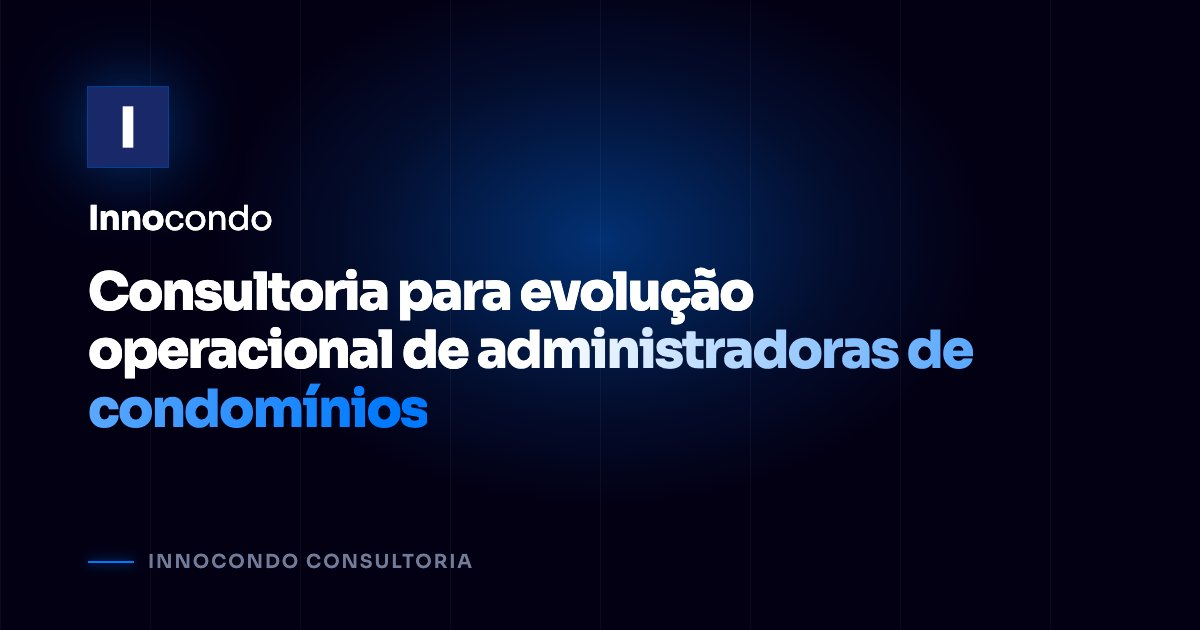
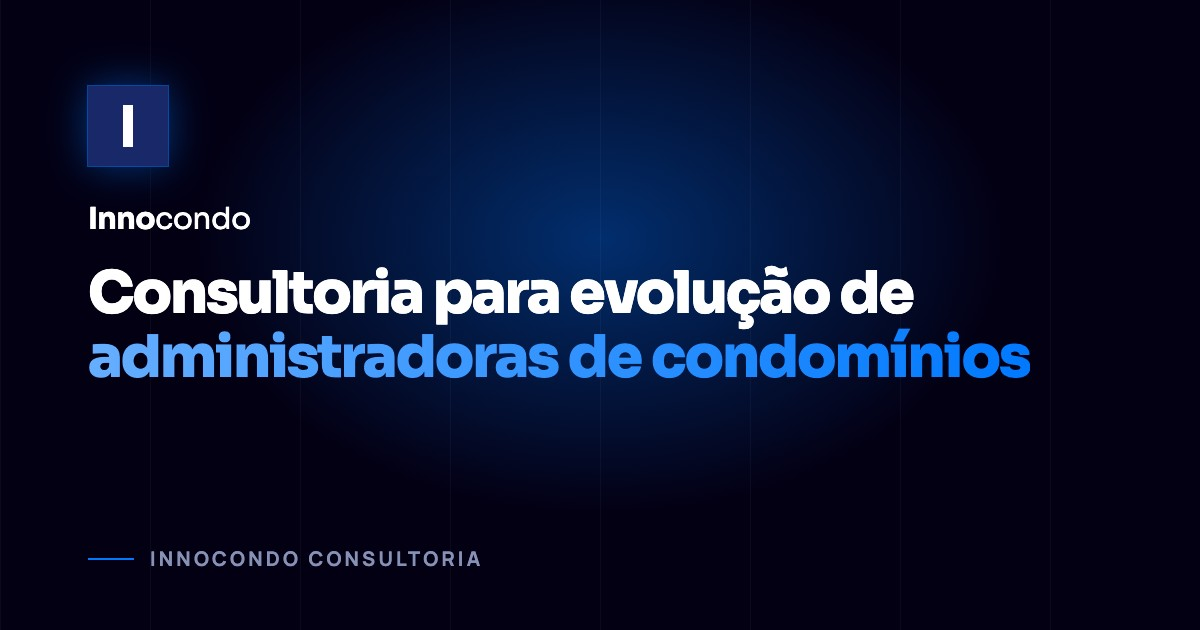
innocondo(lp): V4 vira a LP oficial de Consultoria em /innocondo-consultoria (V2 retirada do ar, copia no historico local); V3 e /innocondo-consultoria-v4 mantidas

diff --git a/innocondo-consultoria/index.html b/innocondo-consultoria/index.html
@@ -4,22 +4,22 @@
 <meta charset="UTF-8">
 <meta name="viewport" content="width=device-width, initial-scale=1.0">
 <meta name="robots" content="noindex, nofollow">
-<title>Innocondo Consultoria: evolução operacional de administradoras</title>
-<meta name="description" content="Consultoria para administradoras e empresas do ecossistema condominial: gargalos, oportunidades e melhorias em processos, gestão, tecnologia e resultados.">
+<title>Innocondo Consultoria para administradoras de condomínios</title>
+<meta name="description" content="Consultoria especializada em administradoras de condomínios: identificação de problemas, oportunidades e ineficiências e condução de projetos de evolução.">
 <link rel="canonical" href="https://meiocomunica.com.br/innocondo-consultoria/">
 <meta property="og:type" content="website">
 <meta property="og:locale" content="pt_BR">
 <meta property="og:site_name" content="Innocondo">
 <meta property="og:url" content="https://meiocomunica.com.br/innocondo-consultoria/">
-<meta property="og:title" content="Innocondo Consultoria: evolução operacional de administradoras">
-<meta property="og:description" content="Consultoria para administradoras e empresas do ecossistema condominial: gargalos, oportunidades e melhorias em processos, gestão, tecnologia e resultados.">
+<meta property="og:title" content="Innocondo Consultoria para administradoras de condomínios">
+<meta property="og:description" content="Consultoria especializada em administradoras de condomínios: identificação de problemas, oportunidades e ineficiências e condução de projetos de evolução.">
 <meta property="og:image" content="https://meiocomunica.com.br/innocondo-midia/og/og-consultoria.jpg">
 <meta property="og:image:width" content="1200">
 <meta property="og:image:height" content="630">
 <meta property="og:image:alt" content="Innocondo Consultoria">
 <meta name="twitter:card" content="summary_large_image">
-<meta name="twitter:title" content="Innocondo Consultoria: evolução operacional de administradoras">
-<meta name="twitter:description" content="Consultoria para administradoras e empresas do ecossistema condominial: gargalos, oportunidades e melhorias em processos, gestão, tecnologia e resultados.">
+<meta name="twitter:title" content="Innocondo Consultoria para administradoras de condomínios">
+<meta name="twitter:description" content="Consultoria especializada em administradoras de condomínios: identificação de problemas, oportunidades e ineficiências e condução de projetos de evolução.">
 <meta name="twitter:image" content="https://meiocomunica.com.br/innocondo-midia/og/og-consultoria.jpg">
 <meta name="theme-color" content="#030014">
 <script type="application/ld+json">{
@@ -37,7 +37,7 @@
     "height": 512
    },
    "image": "https://meiocomunica.com.br/innocondo-midia/og/og-innocondo.jpg",
-   "description": "Empresa dedicada ao mercado condominial. Atua em duas frentes: consultoria de eficiência e transformação operacional para administradoras de condomínios, e soluções para o ecossistema condominial, começando pela proteção.",
+   "description": "Empresa dedicada ao mercado condominial. A Innocondo Consultoria atua ao lado de administradoras de condomínios para identificar problemas, oportunidades e ineficiências e conduzir projetos de evolução.",
    "email": "contato@innocondo.com.br",
    "telephone": "+55-11-99137-5208",
    "address": {
@@ -62,16 +62,15 @@
     "eficiência operacional",
     "processos e back office",
     "ERP para administradoras",
-    "automação bancária de condomínios",
-    "seguros para condomínios"
+    "automação bancária de condomínios"
    ]
   },
   {
    "@type": "WebPage",
    "@id": "https://meiocomunica.com.br/innocondo-consultoria/#pagina",
    "url": "https://meiocomunica.com.br/innocondo-consultoria/",
-   "name": "Innocondo Consultoria: evolução operacional de administradoras",
-   "description": "Consultoria para administradoras e empresas do ecossistema condominial: gargalos, oportunidades e melhorias em processos, gestão, tecnologia e resultados.",
+   "name": "Innocondo Consultoria para administradoras de condomínios",
+   "description": "Consultoria especializada em administradoras de condomínios: identificação de problemas, oportunidades e ineficiências e condução de projetos de evolução.",
    "inLanguage": "pt-BR",
    "isPartOf": {
     "@type": "WebSite",
@@ -91,7 +90,7 @@
    "@type": "Service",
    "@id": "https://meiocomunica.com.br/innocondo-consultoria/#servico",
    "name": "Innocondo Consultoria",
-   "serviceType": "Consultoria em evolução operacional para administradoras de condomínios e empresas do ecossistema condominial",
+   "serviceType": "Consultoria para evolução de administradoras de condomínios",
    "provider": {
     "@id": "https://meiocomunica.com.br/innocondo-v5-1/#organizacao"
    },
@@ -101,9 +100,9 @@
    },
    "audience": {
     "@type": "Audience",
-    "audienceType": "Administradoras de condomínios e empresas do ecossistema condominial"
+    "audienceType": "Administradoras de condomínios"
    },
-   "description": "Consultoria para administradoras e empresas do ecossistema condominial: gargalos, oportunidades e melhorias em processos, gestão, tecnologia e resultados.",
+   "description": "Consultoria especializada em administradoras de condomínios: identificação de problemas, oportunidades e ineficiências e condução de projetos de evolução.",
    "url": "https://meiocomunica.com.br/innocondo-consultoria/"
   },
   {
@@ -130,18 +129,10 @@
    "mainEntity": [
     {
      "@type": "Question",
-     "name": "Vocês entregam um relatório e encerram o trabalho?",
+     "name": "Precisamos trocar de sistema?",
      "acceptedAnswer": {
       "@type": "Answer",
-      "text": "Não. O diagnóstico é o ponto de partida. A entrega é a melhoria incorporada à rotina: acompanhamos a implementação e apoiamos as equipes até a nova forma de operar estar estabilizada."
-     }
-    },
-    {
-     "@type": "Question",
-     "name": "Precisamos trocar de sistema para trabalhar com a Innocondo?",
-     "acceptedAnswer": {
-      "@type": "Answer",
-      "text": "Não. Muitos ganhos vêm de utilizar melhor o que já existe. Se a troca ou a evolução do sistema fizer sentido, isso aparece no diagnóstico, com critérios e alternativas, e a decisão permanece com a administradora."
+      "text": "Não necessariamente. Muitos ganhos vêm de utilizar melhor o que já existe. Se a troca ou a evolução do sistema fizer sentido, isso aparece no diagnóstico, com critérios e alternativas, e a decisão permanece com a administradora."
      }
     },
     {
@@ -149,23 +140,15 @@
      "name": "Quanto tempo leva um projeto?",
      "acceptedAnswer": {
       "@type": "Answer",
-      "text": "Depende da complexidade da operação e do objetivo. Prazo e escopo são definidos na conversa inicial, depois de entendermos o cenário, e não antes dela."
+      "text": "O prazo depende do contexto, da complexidade e do objetivo do projeto. Escopo e cronograma são definidos após a conversa inicial e o entendimento do cenário da administradora."
      }
     },
     {
      "@type": "Question",
-     "name": "Atendem administradoras de qualquer porte?",
+     "name": "Vocês atendem administradoras de qualquer porte?",
      "acceptedAnswer": {
       "@type": "Answer",
-      "text": "Sim. O escopo e a profundidade do trabalho são definidos de acordo com o tamanho da operação, os desafios identificados e o objetivo do projeto."
-     }
-    },
-    {
-     "@type": "Question",
-     "name": "A Innocondo administra condomínios?",
-     "acceptedAnswer": {
-      "@type": "Answer",
-      "text": "Não. A Innocondo é uma empresa dedicada ao mercado condominial e atua ao lado das administradoras, sem substituí-las."
+      "text": "Sim. O escopo e a profundidade do trabalho são definidos de acordo com o tamanho da administradora, os desafios identificados e o objetivo do projeto. Empresas do ecossistema condominial também podem ser atendidas, em projetos compatíveis com a nossa experiência."
      }
     }
    ]
@@ -520,6 +503,53 @@ html.cv-off .sec{content-visibility:visible}
 .prova-cta{margin-top:30px}
 @media(max-width:1024px){.desafio,.duas-col{grid-template-columns:1fr;gap:32px}}
 @media(max-width:900px){.grupos{grid-template-columns:1fr}}
+
+/* V3: assinatura sutil "Organizar", segundo texto do hero e fecho do bloco de frentes */
+.lph-sub.lph-sub2{margin-top:-22px;font-size:1rem;opacity:.88}
+.assina{display:flex;flex-wrap:wrap;align-items:center;gap:14px;margin-top:38px;font-size:.76rem;font-weight:700;letter-spacing:.22em;text-transform:uppercase;color:var(--blue-300)}
+.assina span{font-size:.95rem;font-weight:500;letter-spacing:.01em;text-transform:none;color:var(--txt-2);padding-left:14px;border-left:1px solid var(--line-2)}
+.grupos+.fecho{margin-top:44px}
+@media(max-width:640px){.assina{margin-top:30px;gap:10px}.assina span{padding-left:10px}}
+
+/* V4: acabamento de composição. Menos altura, sem linhas divisórias, mesma informação. */
+
+/* 02 · desafio: os quatro problemas viram uma grade 2x2 ao lado do título, sem fios entre eles */
+#cenario{padding-block:92px}
+.sinais{display:grid;grid-template-columns:repeat(2,minmax(0,1fr));gap:28px 34px}
+.sinais li{padding:0 0 0 22px;border:0}
+.sinais li:last-child{border:0}
+.sinais li::before{top:7px;width:7px;height:7px;box-shadow:0 0 9px var(--blue)}
+.sinais b{font-size:.98rem;margin-bottom:6px}
+.sinais span{font-size:.88rem;line-height:1.55}
+
+/* 04 · frentes: três grupos menores, sem divisórias internas */
+#onde-atuamos{padding-block:96px}
+#onde-atuamos .sec-head{margin-bottom:38px}
+.grupos{gap:14px}
+.grupo{padding:22px 22px 24px;border-radius:var(--radius-lg)}
+.grupo>h3{margin-bottom:14px}
+.grupo li{padding:0;border:0;margin-bottom:16px}
+.grupo li:last-child{margin-bottom:0}
+.grupo li b{font-size:.95rem;margin-bottom:4px}
+.grupo li span{font-size:.85rem;line-height:1.5}
+.grupos+.fecho{margin-top:34px}
+
+/* 05 · contexto: uma linha só; abaixo de ~900px vira faixa que se arrasta para o lado */
+#caminho{padding-block:92px}
+#caminho .sec-head{margin-bottom:34px}
+.fatores{flex-wrap:nowrap;justify-content:space-between;gap:6px;margin-bottom:0;overflow-x:auto;overscroll-behavior-x:contain;scroll-snap-type:x proximity;scrollbar-width:none;padding-bottom:2px}
+.fatores::-webkit-scrollbar{display:none}
+.fatores span{flex:0 0 auto;scroll-snap-align:start;white-space:nowrap;padding:clamp(7px,.75vw,10px) clamp(10px,.9vw,12px);font-size:clamp(.64rem,.98vw,.75rem)}
+.fatores span::before{width:5px;height:5px;margin-right:clamp(5px,.55vw,7px)}
+.fatores.rola:not(.fim){-webkit-mask-image:linear-gradient(90deg,#000 calc(100% - 48px),transparent);mask-image:linear-gradient(90deg,#000 calc(100% - 48px),transparent)}
+.fatores.rola{justify-content:flex-start}
+.fatores:focus-visible{outline:2px solid var(--blue);outline-offset:6px;border-radius:12px}
+
+@media(max-width:1024px){#cenario,#onde-atuamos,#caminho{padding-block:76px}}
+@media(max-width:640px){
+  #cenario,#onde-atuamos,#caminho{padding-block:60px}
+  .sinais{grid-template-columns:1fr;gap:22px}
+}
 </style>
 </head>
 <body>
@@ -567,13 +597,15 @@ html.cv-off .sec{content-visibility:visible}
   <div class="wrap">
     <div class="lph-inner">
       <span class="pill hl hl-1">Consultoria</span>
-      <h1 class="hl hl-2">Consultoria para evolução operacional de <span class="grad">administradoras de condomínios</span></h1>
-      <p class="lph-sub hl hl-3">Apoiamos administradoras e empresas do ecossistema condominial na identificação de gargalos, oportunidades e ineficiências, estruturando melhorias que fortalecem processos, gestão, tecnologia e resultados.</p>
+      <h1 class="hl hl-2">Consultoria para evolução de <span class="grad">administradoras de condomínios</span></h1>
+      <p class="lph-sub hl hl-3">Atuamos ao lado de administradoras de condomínios para identificar problemas, oportunidades e ineficiências, estruturando melhorias e conduzindo projetos que contribuem para a evolução da administradora.</p>
+      <p class="lph-sub lph-sub2 hl hl-3">Nossa atuação parte da realidade de cada administradora, considerando seu momento, estrutura, desafios e objetivos.</p>
       <div class="lph-actions hl hl-4">
-        <a href="#contato" class="btn btn-primary">Conversar sobre minha operação <svg viewBox="0 0 24 24" stroke-linecap="round" stroke-linejoin="round"><path d="M5 12h14M13 6l6 6-6 6"/></svg></a>
+        <a href="#contato" class="btn btn-primary">Conversar com a Innocondo <svg viewBox="0 0 24 24" stroke-linecap="round" stroke-linejoin="round"><path d="M5 12h14M13 6l6 6-6 6"/></svg></a>
         <a href="#como" class="btn-link">Ver como atuamos
           <svg viewBox="0 0 24 24" stroke-linecap="round" stroke-linejoin="round"><path d="M12 5v14M6 13l6 6 6-6"/></svg></a>
       </div>
+      <div class="assina hl hl-4" aria-label="Organizar. Entender, estruturar, evoluir."><b>Organizar</b><span>Entender. Estruturar. Evoluir.</span></div>
     </div>
     <div class="lph-marcas hl hl-4"><div class="lph-marca"><b>+17</b><span>anos de experiência acumulada pelos profissionais</span></div><div class="lph-marca"><b>+250</b><span>administradoras visitadas e ouvidas</span></div><div class="lph-marca"><b>Experiência prática</b><span>em operação, gestão, tecnologia e transformação</span></div></div>
   </div>
@@ -583,9 +615,9 @@ html.cv-off .sec{content-visibility:visible}
   <div class="gridlines" aria-hidden="true"></div>
   <div class="wrap desafio">
     <div class="reveal">
-      <span class="pill">O desafio operacional</span>
-      <h2>O crescimento da administradora <span class="dim">exige mais da operação</span></h2>
-      <p>À medida que a operação cresce, processos, sistemas, pessoas e controles precisam evoluir no mesmo ritmo. Quando isso não acontece, surgem gargalos que impactam produtividade, qualidade e capacidade de gestão.</p>
+      <span class="pill">O desafio da administradora</span>
+      <h2>A evolução da administradora começa por <span class="dim">entender onde estão os pontos de atenção</span></h2>
+      <p>À medida que a administradora cresce, processos, sistemas, pessoas e controles precisam evoluir no mesmo ritmo. Quando isso não acontece, surgem pontos de atenção que afetam produtividade, qualidade e capacidade de gestão.</p>
     </div>
     <ul class="sinais reveal" data-d="1">
       <li><b>Processos concentrados em pessoas-chave</b><span>Quando conhecimento e execução ficam concentrados, a operação ganha dependência, vulnerabilidade e dificuldade de escala.</span></li>
@@ -600,12 +632,12 @@ html.cv-off .sec{content-visibility:visible}
   <div class="gridlines" aria-hidden="true"></div>
   <div class="wrap duas-col">
     <div class="reveal">
-      <span class="pill">Experiência aplicada</span>
-      <h2>Experiência de quem conhece a operação <span class="dim">por diferentes perspectivas</span></h2>
+      <span class="pill">Visão e experiência</span>
+      <h2>Uma visão que conecta <span class="dim">diferentes dimensões da administradora</span></h2>
     </div>
     <div class="reveal" data-d="1">
-      <p>Ao longo de mais de 17 anos, nossos profissionais estiveram dentro de administradoras de condomínios, instituições financeiras, empresas de tecnologia e iniciativas de formação profissional.</p>
-      <p>Essa experiência permite analisar a operação de forma integrada, conectando processos, pessoas, sistemas, financeiro, atendimento e gestão para identificar onde estão os principais pontos de evolução.</p>
+      <p>Ao longo de mais de 17 anos, nossos profissionais atuaram em diferentes pontos do mercado condominial, passando por administradoras, instituições financeiras, empresas de tecnologia e iniciativas de formação profissional.</p>
+      <p>Essa experiência permite conectar diferentes dimensões de uma administradora e entender como processos, pessoas, sistemas, gestão, financeiro e relacionamento se influenciam no dia a dia.</p>
     </div>
   </div>
 </section>
@@ -614,9 +646,9 @@ html.cv-off .sec{content-visibility:visible}
   <div class="gridlines" aria-hidden="true"></div>
   <div class="wrap">
     <div class="sec-head reveal">
-      <span class="pill">Frentes de atuação</span>
-      <h2>Onde podemos gerar valor <span class="dim">na sua operação</span></h2>
-      <p>Cada projeto é estruturado a partir do cenário, dos objetivos e do nível de maturidade de cada empresa. As frentes abaixo representam alguns dos principais contextos em que nossa experiência pode contribuir.</p>
+      <span class="pill">Onde atuamos</span>
+      <h2>Onde podemos contribuir <span class="dim">para a evolução da sua administradora</span></h2>
+      <p>Cada administradora vive um momento diferente. Nossa atuação pode envolver diferentes dimensões da administradora, de acordo com os desafios, oportunidades e objetivos identificados.</p>
     </div>
     <div class="grupos">
       <div class="grupo reveal">
@@ -636,13 +668,14 @@ html.cv-off .sec{content-visibility:visible}
         </ul>
       </div>
       <div class="grupo reveal" data-d="2">
-        <h3>Clientes e crescimento</h3>
+        <h3>Relacionamento e crescimento</h3>
         <ul>
           <li><b>Atendimento e relacionamento</b><span>Reestruturação de fluxos, canais, processos e modelos de atendimento, buscando mais organização, rastreabilidade e eficiência.</span></li>
           <li><b>Receita e crescimento</b><span>Análise de oportunidades de expansão de receita, aquisição e desenvolvimento de carteira, cross-selling, upselling e evolução do ticket médio.</span></li>
         </ul>
       </div>
     </div>
+    <p class="fecho reveal">Não trabalhamos a partir de um pacote pronto. Estruturamos cada projeto a partir do que a administradora precisa transformar.</p>
   </div>
 </section>
 
@@ -650,16 +683,12 @@ html.cv-off .sec{content-visibility:visible}
   <div class="gridlines" aria-hidden="true"></div>
   <div class="wrap">
     <div class="sec-head reveal">
-      <span class="pill">Cada operação, um caminho</span>
-      <h2>Cada operação exige <span class="dim">um caminho diferente</span></h2>
-      <p>O ponto de partida pode ser semelhante, mas as prioridades não são. Estes fatores influenciam diretamente o que vem primeiro em cada empresa.</p>
+      <span class="pill">Cada administradora, um caminho</span>
+      <h2>Cada administradora exige <span class="dim">um caminho diferente</span></h2>
+      <p>Duas administradoras podem utilizar o mesmo ERP, ter estruturas semelhantes e atuar no mesmo mercado, mas enfrentar desafios completamente diferentes. Por isso, antes de recomendar qualquer mudança, entendemos o contexto, as prioridades e os objetivos da administradora.</p>
     </div>
     <div class="fatores reveal" data-d="1">
-      <span>Região de atuação</span><span>Perfil da carteira</span><span>Ticket médio</span><span>Estrutura da equipe</span><span>Nível de maturidade</span><span>Sistemas utilizados</span><span>Objetivos estratégicos</span>
-    </div>
-    <div class="caminho-txt reveal" data-d="2">
-      <p>Uma administradora pode precisar reorganizar processos. Outra pode ter um ERP subutilizado. Outra pode buscar eficiência financeira, crescimento de carteira, automação ou fortalecimento dos controles. Nosso papel é entender essas diferenças e estruturar um projeto coerente com a realidade e os objetivos de cada empresa.</p>
-      <p class="fecho">Antes de recomendar qualquer mudança, entendemos o contexto em que a empresa está inserida.</p>
+      <span>Região de atuação</span><span>Perfil e composição da carteira</span><span>Ticket médio</span><span>Estrutura da equipe</span><span>Nível de maturidade</span><span>Sistemas utilizados</span><span>Objetivos estratégicos</span>
     </div>
   </div>
 </section>
@@ -668,18 +697,18 @@ html.cv-off .sec{content-visibility:visible}
   <div class="gridlines" aria-hidden="true"></div>
   <div class="wrap">
     <div class="sec-head reveal">
-      <span class="pill">Como transformamos a operação</span>
-      <h2>Da compreensão do cenário <span class="dim">à implementação da melhoria</span></h2>
+      <span class="pill">Como atuamos</span>
+      <h2>Como conduzimos <span class="dim">cada projeto</span></h2>
     </div>
     <div class="passos">
-      <div class="passo reveal"><span class="n">01</span><h3>Imersão na operação</h3><p>Entendemos como a empresa funciona na prática, conversamos com as equipes e analisamos os processos, sistemas e rotinas envolvidos.</p></div>
-      <div class="passo reveal" data-d="1"><span class="n">02</span><h3>Diagnóstico</h3><p>Identificamos gargalos, riscos, ineficiências e oportunidades, avaliando seus impactos sobre a operação e os objetivos da empresa.</p></div>
+      <div class="passo reveal"><span class="n">01</span><h3>Imersão</h3><p>Entendemos como a administradora funciona na prática, conversamos com as equipes e analisamos os processos, sistemas e rotinas envolvidos.</p></div>
+      <div class="passo reveal" data-d="1"><span class="n">02</span><h3>Diagnóstico</h3><p>Identificamos gargalos, riscos, ineficiências e oportunidades, avaliando seus impactos sobre a operação e os objetivos da administradora.</p></div>
       <div class="passo reveal" data-d="2"><span class="n">03</span><h3>Plano de melhorias</h3><p>Priorizamos as oportunidades e estruturamos o plano de ação, definindo o que precisa mudar, em que ordem e com quais responsáveis.</p></div>
       <div class="passo reveal" data-d="2"><span class="n">04</span><h3>Implementação</h3><p>Acompanhamos a execução, apoiamos as equipes e ajustamos os processos até que a nova forma de operar esteja incorporada à rotina.</p></div>
     </div>
     <div class="fecho-bloco reveal">
       <p class="fecho">Diagnóstico é o começo. A transformação acontece quando a melhoria entra na operação.</p>
-      <a href="#contato" class="lnk">Conversar sobre minha operação <svg viewBox="0 0 24 24" stroke-linecap="round" stroke-linejoin="round"><path d="M5 12h14M13 6l6 6-6 6"/></svg></a>
+      <a href="#contato" class="lnk">Conversar com a Innocondo <svg viewBox="0 0 24 24" stroke-linecap="round" stroke-linejoin="round"><path d="M5 12h14M13 6l6 6-6 6"/></svg></a>
     </div>
   </div>
 </section>
@@ -687,12 +716,12 @@ html.cv-off .sec{content-visibility:visible}
 <section class="sec prova deep" id="depoimentos">
   <div class="wrap">
     <div class="sec-head reveal">
-      <span class="pill">Experiência na prática</span>
-      <h2>Experiência aplicada <span class="dim">a problemas reais</span></h2>
+      <span class="pill">Na prática</span>
+      <h2>Projetos <span class="dim">que já conduzimos</span></h2>
     </div>
     <div class="depos">
-      <figure class="depo reveal"><span class="depo-tag">ERP, back office e automação bancária</span><svg class="quote-ic" viewBox="0 0 24 24" fill="currentColor" aria-hidden="true"><path d="M3 21c3 0 7-1 7-8V5c0-1.25-.756-2.017-2-2H4c-1.25 0-2 .75-2 1.972V11c0 1.25.75 2 2 2 1 0 1 0 1 1v1c0 1-1 2-2 2s-1 .008-1 1.031V20c0 1 0 1 1 1z"/><path d="M15 21c3 0 7-1 7-8V5c0-1.25-.757-2.017-2-2h-4c-1.25 0-2 .75-2 1.972V11c0 1.25.75 2 2 2h.75c0 2.25.25 4-2.75 4v3c0 1 0 1 1 1z"/></svg><blockquote>Trabalhar com a Innocondo foi uma experiência muito positiva para a Priali. A equipe esteve próxima da nossa operação de back office, entendendo nossos desafios e participando de projetos importantes, como a implantação de um novo ERP e a automação bancária dos condomínios que administramos. O conhecimento do mercado condominial, aliado a uma visão muito prática da operação, contribuiu diretamente para ganharmos eficiência e evoluirmos nossa forma de trabalhar.</blockquote><figcaption class="depo-who"><img class="depo-av" src="/innocondo-midia/depoimentos/elaine-priali.webp" width="52" height="52" alt="" loading="lazy" decoding="async"><div><div class="nm">Elaine</div><div class="rl">Sócia-Diretora · Administradora Priali</div></div></figcaption></figure>
-      <figure class="depo reveal" data-d="1"><span class="depo-tag">Processos e atendimento</span><svg class="quote-ic" viewBox="0 0 24 24" fill="currentColor" aria-hidden="true"><path d="M3 21c3 0 7-1 7-8V5c0-1.25-.756-2.017-2-2H4c-1.25 0-2 .75-2 1.972V11c0 1.25.75 2 2 2 1 0 1 0 1 1v1c0 1-1 2-2 2s-1 .008-1 1.031V20c0 1 0 1 1 1z"/><path d="M15 21c3 0 7-1 7-8V5c0-1.25-.757-2.017-2-2h-4c-1.25 0-2 .75-2 1.972V11c0 1.25.75 2 2 2h.75c0 2.25.25 4-2.75 4v3c0 1 0 1 1 1z"/></svg><blockquote>A Innocondo nos apoiou em um momento importante de revisão dos nossos processos operacionais e de atendimento. A partir de uma análise muito próxima da nossa realidade, conseguimos organizar e centralizar o atendimento em um fluxo mais estruturado, trazendo mais controle e visibilidade para a operação. O trabalho contribuiu para melhorar nossa gestão e tornar o processo de atendimento mais eficiente e organizado.</blockquote><figcaption class="depo-who"><img class="depo-av" src="/innocondo-midia/depoimentos/julio-herold.webp" width="52" height="52" alt="" loading="lazy" decoding="async"><div><div class="nm">Júlio Herold</div><div class="rl">Sócio-Diretor · GH Sindicatura Profissional</div></div></figcaption></figure>
+      <figure class="depo reveal"><span class="depo-tag">ERP, back office, automação bancária e eficiência</span><svg class="quote-ic" viewBox="0 0 24 24" fill="currentColor" aria-hidden="true"><path d="M3 21c3 0 7-1 7-8V5c0-1.25-.756-2.017-2-2H4c-1.25 0-2 .75-2 1.972V11c0 1.25.75 2 2 2 1 0 1 0 1 1v1c0 1-1 2-2 2s-1 .008-1 1.031V20c0 1 0 1 1 1z"/><path d="M15 21c3 0 7-1 7-8V5c0-1.25-.757-2.017-2-2h-4c-1.25 0-2 .75-2 1.972V11c0 1.25.75 2 2 2h.75c0 2.25.25 4-2.75 4v3c0 1 0 1 1 1z"/></svg><blockquote>Trabalhar com a Innocondo foi uma experiência muito positiva para a Priali. A equipe esteve próxima da nossa operação de back office, entendendo nossos desafios e participando de projetos importantes, como a implantação de um novo ERP e a automação bancária dos condomínios que administramos. O conhecimento do mercado condominial, aliado a uma visão muito prática da operação, contribuiu diretamente para ganharmos eficiência e evoluirmos nossa forma de trabalhar.</blockquote><figcaption class="depo-who"><img class="depo-av" src="/innocondo-midia/depoimentos/elaine-priali.webp" width="52" height="52" alt="" loading="lazy" decoding="async"><div><div class="nm">Elaine</div><div class="rl">Sócia-Diretora · Administradora Priali</div></div></figcaption></figure>
+      <figure class="depo reveal" data-d="1"><span class="depo-tag">Processos, atendimento, organização e gestão</span><svg class="quote-ic" viewBox="0 0 24 24" fill="currentColor" aria-hidden="true"><path d="M3 21c3 0 7-1 7-8V5c0-1.25-.756-2.017-2-2H4c-1.25 0-2 .75-2 1.972V11c0 1.25.75 2 2 2 1 0 1 0 1 1v1c0 1-1 2-2 2s-1 .008-1 1.031V20c0 1 0 1 1 1z"/><path d="M15 21c3 0 7-1 7-8V5c0-1.25-.757-2.017-2-2h-4c-1.25 0-2 .75-2 1.972V11c0 1.25.75 2 2 2h.75c0 2.25.25 4-2.75 4v3c0 1 0 1 1 1z"/></svg><blockquote>A Innocondo nos apoiou em um momento importante de revisão dos nossos processos operacionais e de atendimento. A partir de uma análise muito próxima da nossa realidade, conseguimos organizar e centralizar o atendimento em um fluxo mais estruturado, trazendo mais controle e visibilidade para a operação. O trabalho contribuiu para melhorar nossa gestão e tornar o processo de atendimento mais eficiente e organizado.</blockquote><figcaption class="depo-who"><img class="depo-av" src="/innocondo-midia/depoimentos/julio-herold.webp" width="52" height="52" alt="" loading="lazy" decoding="async"><div><div class="nm">Júlio Herold</div><div class="rl">Sócio-Diretor · GH Sindicatura Profissional</div></div></figcaption></figure>
     </div>
   </div>
 </section>
@@ -705,7 +734,7 @@ html.cv-off .sec{content-visibility:visible}
       <h2>Perguntas <span class="dim">frequentes</span></h2>
     </div>
     <div class="faq">
-      <details class="reveal"><summary>Vocês entregam um relatório e encerram o trabalho?</summary><div class="resp">Não. O diagnóstico é o ponto de partida. A entrega é a melhoria incorporada à rotina: acompanhamos a implementação e apoiamos as equipes até a nova forma de operar estar estabilizada.</div></details><details class="reveal"><summary>Precisamos trocar de sistema para trabalhar com a Innocondo?</summary><div class="resp">Não. Muitos ganhos vêm de utilizar melhor o que já existe. Se a troca ou a evolução do sistema fizer sentido, isso aparece no diagnóstico, com critérios e alternativas, e a decisão permanece com a administradora.</div></details><details class="reveal"><summary>Quanto tempo leva um projeto?</summary><div class="resp">Depende da complexidade da operação e do objetivo. Prazo e escopo são definidos na conversa inicial, depois de entendermos o cenário, e não antes dela.</div></details><details class="reveal"><summary>Atendem administradoras de qualquer porte?</summary><div class="resp">Sim. O escopo e a profundidade do trabalho são definidos de acordo com o tamanho da operação, os desafios identificados e o objetivo do projeto.</div></details><details class="reveal"><summary>A Innocondo administra condomínios?</summary><div class="resp">Não. A Innocondo é uma empresa dedicada ao mercado condominial e atua ao lado das administradoras, sem substituí-las.</div></details>
+      <details class="reveal"><summary>Precisamos trocar de sistema?</summary><div class="resp">Não necessariamente. Muitos ganhos vêm de utilizar melhor o que já existe. Se a troca ou a evolução do sistema fizer sentido, isso aparece no diagnóstico, com critérios e alternativas, e a decisão permanece com a administradora.</div></details><details class="reveal"><summary>Quanto tempo leva um projeto?</summary><div class="resp">O prazo depende do contexto, da complexidade e do objetivo do projeto. Escopo e cronograma são definidos após a conversa inicial e o entendimento do cenário da administradora.</div></details><details class="reveal"><summary>Vocês atendem administradoras de qualquer porte?</summary><div class="resp">Sim. O escopo e a profundidade do trabalho são definidos de acordo com o tamanho da administradora, os desafios identificados e o objetivo do projeto. Empresas do ecossistema condominial também podem ser atendidas, em projetos compatíveis com a nossa experiência.</div></details>
     </div>
   </div>
 </section>
@@ -716,8 +745,8 @@ html.cv-off .sec{content-visibility:visible}
     <div class="contato-card reveal">
       <div class="contato-esq">
         <span class="pill">Contato</span>
-        <h2>Onde está a principal oportunidade de evolução da sua operação?</h2>
-        <p>Conte um pouco sobre sua empresa, o momento atual e o principal desafio que gostaria de analisar. A partir dessas informações, podemos entender o contexto e avaliar como a Innocondo pode contribuir.</p>
+        <h2>Onde está a principal oportunidade de evolução da sua administradora?</h2>
+        <p>Conte um pouco sobre sua administradora, o momento atual e o principal desafio ou oportunidade que gostaria de analisar. A partir dessas informações, podemos entender o contexto e avaliar como a Innocondo pode contribuir.</p>
         <div class="atalho">
           <a href="https://wa.me/5511991375208" target="_blank" rel="noopener"><svg viewBox="0 0 24 24" stroke-linecap="round" stroke-linejoin="round" aria-hidden="true"><path d="M21 11.5a8.5 8.5 0 0 1-8.5 8.5 8.4 8.4 0 0 1-3.8-.9L3 21l1.9-5.7a8.4 8.4 0 0 1-.9-3.8 8.5 8.5 0 0 1 8.5-8.5A8.5 8.5 0 0 1 21 11.5z"/></svg>Prefere conversar agora? Fale no WhatsApp</a>
           <!--email_off--><a href="mailto:contato@innocondo.com.br"><svg viewBox="0 0 24 24" stroke-linecap="round" stroke-linejoin="round"><rect x="2" y="4" width="20" height="16" rx="2"/><path d="m22 7-10 6L2 7"/></svg>contato@innocondo.com.br</a><!--/email_off-->
@@ -725,7 +754,7 @@ html.cv-off .sec{content-visibility:visible}
       </div>
       <form class="fm" data-destino="" data-origem="Consultoria" novalidate>
         <input type="text" class="hp" name="_confirme" tabindex="-1" autocomplete="off" aria-hidden="true">
-        <div class="campo" data-campo><label for="c-nome">Nome</label><input type="text" id="c-nome" name="nome" placeholder="Seu nome" required><span class="msg-erro">Preencha este campo.</span></div><div class="campo" data-campo><label for="c-empresa">Empresa</label><input type="text" id="c-empresa" name="empresa" placeholder="Nome da empresa" required><span class="msg-erro">Preencha este campo.</span></div><div class="fm-linha"><div class="campo" data-campo><label for="c-email">E-mail</label><input type="email" id="c-email" name="email" placeholder="nome@empresa.com.br" required autocomplete="email"><span class="msg-erro">Informe um e-mail válido.</span></div><div class="campo" data-campo><label for="c-zap">WhatsApp</label><input type="tel" id="c-zap" name="whatsapp" placeholder="(11) 90000-0000" required autocomplete="tel" inputmode="tel"><span class="msg-erro">Informe um telefone válido.</span></div></div><div class="campo" data-campo><label for="c-porte">Quantidade aproximada de condomínios administrados</label><select id="c-porte" name="porte" required><option value="" disabled selected>Selecione</option><option value="Até 20">Até 20</option><option value="De 21 a 50">De 21 a 50</option><option value="De 51 a 100">De 51 a 100</option><option value="Mais de 100">Mais de 100</option><option value="Não se aplica">Não se aplica</option></select><span class="msg-erro">Escolha uma opção.</span></div><div class="campo" data-campo><label for="c-tema">Principal desafio ou oportunidade</label><select id="c-tema" name="tema" required><option value="" disabled selected>Selecione</option><option value="Processos e operações">Processos e operações</option><option value="Sistemas, ERP e digitalização">Sistemas, ERP e digitalização</option><option value="Financeiro e operações bancárias">Financeiro e operações bancárias</option><option value="Automação e transformação digital">Automação e transformação digital</option><option value="Atendimento e relacionamento">Atendimento e relacionamento</option><option value="Gestão, riscos e controles">Gestão, riscos e controles</option><option value="Receita e crescimento">Receita e crescimento</option><option value="Outro">Outro</option></select><span class="msg-erro">Escolha uma opção.</span></div><div class="campo" data-campo><label for="c-msg">Quer acrescentar algo sobre o momento da empresa? <span class="op">(opcional)</span></label><textarea id="c-msg" name="mensagem" placeholder="Escreva aqui, se quiser."></textarea><span class="msg-erro">Preencha este campo.</span></div>
+        <div class="campo" data-campo><label for="c-nome">Nome</label><input type="text" id="c-nome" name="nome" placeholder="Seu nome" required><span class="msg-erro">Preencha este campo.</span></div><div class="campo" data-campo><label for="c-empresa">Empresa</label><input type="text" id="c-empresa" name="empresa" placeholder="Nome da empresa" required><span class="msg-erro">Preencha este campo.</span></div><div class="fm-linha"><div class="campo" data-campo><label for="c-email">E-mail</label><input type="email" id="c-email" name="email" placeholder="nome@empresa.com.br" required autocomplete="email"><span class="msg-erro">Informe um e-mail válido.</span></div><div class="campo" data-campo><label for="c-zap">WhatsApp</label><input type="tel" id="c-zap" name="whatsapp" placeholder="(11) 90000-0000" required autocomplete="tel" inputmode="tel"><span class="msg-erro">Informe um telefone válido.</span></div></div><div class="campo" data-campo><label for="c-porte">Quantidade aproximada de condomínios administrados</label><select id="c-porte" name="porte" required><option value="" disabled selected>Selecione</option><option value="Até 20">Até 20</option><option value="De 21 a 50">De 21 a 50</option><option value="De 51 a 100">De 51 a 100</option><option value="Mais de 100">Mais de 100</option><option value="Não se aplica">Não se aplica</option></select><span class="msg-erro">Escolha uma opção.</span></div><div class="campo" data-campo><label for="c-tema">Principal desafio ou oportunidade</label><select id="c-tema" name="tema" required><option value="" disabled selected>Selecione</option><option value="Processos e eficiência">Processos e eficiência</option><option value="Gestão e controles">Gestão e controles</option><option value="Sistemas e ERP">Sistemas e ERP</option><option value="Financeiro e operações bancárias">Financeiro e operações bancárias</option><option value="Atendimento e relacionamento">Atendimento e relacionamento</option><option value="Automação e transformação digital">Automação e transformação digital</option><option value="Receita e crescimento">Receita e crescimento</option><option value="Pessoas e capacitação">Pessoas e capacitação</option><option value="Outro">Outro</option></select><span class="msg-erro">Escolha uma opção.</span></div><div class="campo" data-campo><label for="c-msg">Quer acrescentar algo sobre o momento da administradora? <span class="op">(opcional)</span></label><textarea id="c-msg" name="mensagem" placeholder="Escreva aqui, se quiser."></textarea><span class="msg-erro">Preencha este campo.</span></div>
         <button type="submit" class="btn btn-primary">Conversar com a Innocondo <svg viewBox="0 0 24 24" stroke-linecap="round" stroke-linejoin="round"><path d="M5 12h14M13 6l6 6-6 6"/></svg></button>
         <p class="fm-nota">Ao enviar, você autoriza a Innocondo a entrar em contato sobre este assunto. Seus dados não são usados para outra finalidade.</p>
         <div class="fm-aviso" role="status" aria-live="polite"></div>
@@ -924,5 +953,13 @@ html.cv-off .sec{content-visibility:visible}
 })();
 </script>
 <!-- Meio Comunica · Innocondo · LP Consultoria -->
+<script>
+(function(){var f=document.querySelector('.fatores');if(!f)return;
+function u(){var o=f.scrollWidth>f.clientWidth+2;f.classList.toggle('rola',o);
+f.classList.toggle('fim',o&&f.scrollLeft+f.clientWidth>=f.scrollWidth-2);
+if(o){f.setAttribute('tabindex','0');f.setAttribute('role','group');f.setAttribute('aria-label','Fatores considerados em cada projeto')}
+else{f.removeAttribute('tabindex');f.removeAttribute('role');f.removeAttribute('aria-label')}}
+f.addEventListener('scroll',u,{passive:true});addEventListener('resize',u);addEventListener('load',u);u()})();
+</script>
 </body>
 </html>
